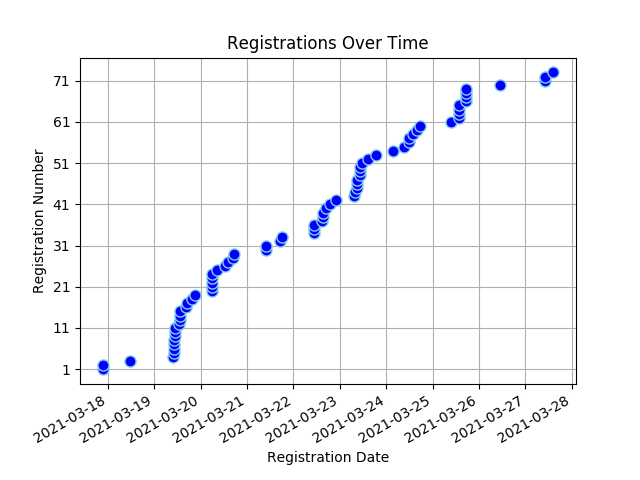
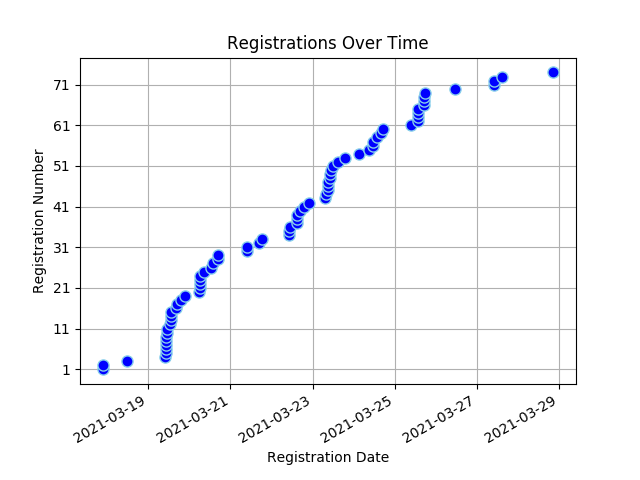
Registree stats backup on Sun 28 Mar 2021 21:01:53 SAST

diff --git a/content/registrees/_index.md b/content/registrees/_index.md
@@ -3,11 +3,11 @@ title: Registration Stats
 draft: false
 ---
 
-<ul><li><strong>Number of Registrees</strong>: 73</li>
+<ul><li><strong>Number of Registrees</strong>: 74</li>
 
 <li><strong>Number of Clubs</strong>: 37</li>
 
-<li><strong>Club With Most Attendees</strong>: Cape Town (6 registrees)</li>
+<li><strong>Clubs With Most Attendees</strong>: Cape Town, Sedgefield (6 registrees)</li>
 </ul><h2>Registrees</h2>
 
 <script type="text/javascript" src="https://ajax.googleapis.com/ajax/libs/jquery/3.4.1/jquery.min.js"></script>
@@ -33,6 +33,6 @@ draft: false
         </tr>
     </thead>
     <tbody>
-<tr><td>Natalie Abrahams</td><td>Cape Town</td><td>410W</td></tr><tr><td>Valencia Beukes-Williams</td><td>Kuilsriver</td><td>410W</td></tr><tr><td>JOSE BRAGA BORGES</td><td>Malmesbury</td><td>410W</td></tr><tr><td>Herman Cadman</td><td>Stellenbosch</td><td>410W</td></tr><tr><td>Linda Ann Cannone</td><td>Fish Hoek</td><td>410W</td></tr><tr><td>Sue Charles</td><td>Tokai</td><td>410W</td></tr><tr><td>Perry Chetty</td><td>East Coast</td><td>410E</td></tr><tr><td>Esme Cornelius</td><td>Kuilsriver</td><td>410W</td></tr><tr><td>Sharon Cottle</td><td>Groote Schuur</td><td>410E</td></tr><tr><td>Peter Daniel</td><td>Gordons Bay</td><td>410W</td></tr><tr><td>Norma Daniel</td><td>Gordons Bay</td><td>410W</td></tr><tr><td>Engela de Kock</td><td>Swellendam</td><td>410W</td></tr><tr><td>Francois de Kock</td><td>Swellendam</td><td>410W</td></tr><tr><td>ANDRE DE VILLIERS</td><td>Malgas</td><td>410W</td></tr><tr><td>Desiree du Toit</td><td>Ramsgate</td><td>410E</td></tr><tr><td>Natalie Etridge</td><td>Sedgefield</td><td>410W</td></tr><tr><td>Roger Fahrbach</td><td>Windhoek</td><td>410W</td></tr><tr><td>Beate Fahrbach</td><td>Windhoek</td><td>410W</td></tr><tr><td>Charles Flanagan</td><td>Tokai</td><td>410W</td></tr><tr><td>Jules Flanagan</td><td>Tokai</td><td>410W</td></tr><tr><td>Viv Grater</td><td>Sedgefield</td><td>410W</td></tr><tr><td>Dorothy Hess</td><td>Kuilsriver</td><td>410W</td></tr><tr><td>Wendy Higgins</td><td>Wilro Park</td><td>410E</td></tr><tr><td>Jacqui Hocking</td><td>Midrand</td><td>410E</td></tr><tr><td>Cliff Hocking</td><td>Midrand</td><td>410E</td></tr><tr><td>Liz Houston</td><td>Table View</td><td>410W</td></tr><tr><td>John Houston</td><td>Table View</td><td>410W</td></tr><tr><td>WOLSLEY Jacobson</td><td>Cape Town</td><td>410W</td></tr><tr><td>Jerome Kern</td><td>Groote Schuur</td><td>410W</td></tr><tr><td>Zwaai Kruger</td><td>Sedgefield</td><td>410W</td></tr><tr><td>Bevil Lakay</td><td>Mitchells Plain</td><td>410W</td></tr><tr><td>Paula Lang</td><td>Gordons Bay</td><td>410W</td></tr><tr><td>Jimmy Lang</td><td>Gordons Bay</td><td>410W</td></tr><tr><td>Sharon Mangwende</td><td>Cape Town</td><td>410E</td></tr><tr><td>Beaulieu Mare</td><td>Benoni Lakes</td><td>410E</td></tr><tr><td>David Mccullough</td><td>Pretoria South</td><td>410E</td></tr><tr><td>Mark Meltzer</td><td>The Wilds</td><td>410E</td></tr><tr><td>Denis Meyer</td><td>Port Shepstone</td><td>410E</td></tr><tr><td>BERNICE MILLS</td><td>Centurion</td><td>410E</td></tr><tr><td>Patrick Mills</td><td>Centurion</td><td>410E</td></tr><tr><td>Cherie Milosevich</td><td>Milnerton</td><td>410W</td></tr><tr><td>Virginia Mkhize</td><td>Cape Town</td><td>410W</td></tr><tr><td>Bernadine Moses</td><td>Cape Town</td><td>410W</td></tr><tr><td>Pieter Nel</td><td>George</td><td>410W</td></tr><tr><td>Tillie Nel</td><td>Eden</td><td>410W</td></tr><tr><td>Debra Olivier</td><td>Sedgefield</td><td>410W</td></tr><tr><td>BRIAN PORTEOUS</td><td>Hibberdene</td><td>410E</td></tr><tr><td>Irene Rugheimer</td><td>Bedfordview</td><td>410E</td></tr><tr><td>Ingrid Russell</td><td>Fish Hoek</td><td>410W</td></tr><tr><td>Francis Searle</td><td>Kouga</td><td>410E</td></tr><tr><td>Gloria Searle</td><td>Kouga</td><td>410E</td></tr><tr><td>Ami Sell</td><td>Windhoek</td><td>410W</td></tr><tr><td>Sue Smit</td><td>Centurion</td><td>410E</td></tr><tr><td>Jeff Smith</td><td>Port Shepstone</td><td>410E</td></tr><tr><td>LYN SNYMAN</td><td>Deep South</td><td>410W</td></tr><tr><td>RORY stier</td><td>Deep South</td><td>410W</td></tr><tr><td>Patrick Strauss</td><td>Kuilsriver</td><td>410W</td></tr><tr><td>Lauryn Talbot</td><td>Benoni Lakes</td><td>410E</td></tr><tr><td>Alistair Tuckett</td><td>Roodepoort Clearwater Cyber</td><td>410E</td></tr><tr><td>HILARY LISE VAN BREDA</td><td>Cape Town</td><td>410W</td></tr><tr><td>Marina Van de Merwe</td><td>Malmesbury</td><td>410W</td></tr><tr><td>Neville Van Rensburg</td><td>Moorreesburg</td><td>410W</td></tr><tr><td>Johan van Rensburg</td><td>Windhoek</td><td>410W</td></tr><tr><td>Anne van Rensburg</td><td>Windhoek</td><td>410W</td></tr><tr><td>Jeannie van Wulven</td><td>Tygerberg Hills</td><td>410W</td></tr><tr><td>Alan van Wulven</td><td>Tygerberg Hills</td><td>410W</td></tr><tr><td>Deon van Wulven</td><td>Tygerberg Hills</td><td>410W</td></tr><tr><td>Kim van Wyk</td><td>North Durban</td><td>410E</td></tr><tr><td>Edith Van Wyk-Nelson</td><td>Kuilsriver</td><td>410W</td></tr><tr><td>Brian von der Decken</td><td>King William's Town</td><td>410E</td></tr><tr><td>Rochelle Vorster</td><td>Sedgefield</td><td>410W</td></tr><tr><td>Allan Watson</td><td>Sea Point</td><td>410W</td></tr><tr><td>Judy Young</td><td>Durbanville</td><td>410W</td></tr>
+<tr><td>Natalie Abrahams</td><td>Cape Town</td><td>410W</td></tr><tr><td>Valencia Beukes-Williams</td><td>Kuilsriver</td><td>410W</td></tr><tr><td>JOSE BRAGA BORGES</td><td>Malmesbury</td><td>410W</td></tr><tr><td>Herman Cadman</td><td>Stellenbosch</td><td>410W</td></tr><tr><td>Linda Ann Cannone</td><td>Fish Hoek</td><td>410W</td></tr><tr><td>Sue Charles</td><td>Tokai</td><td>410W</td></tr><tr><td>Perry Chetty</td><td>East Coast</td><td>410E</td></tr><tr><td>Esme Cornelius</td><td>Kuilsriver</td><td>410W</td></tr><tr><td>Sharon Cottle</td><td>Groote Schuur</td><td>410E</td></tr><tr><td>Peter Daniel</td><td>Gordons Bay</td><td>410W</td></tr><tr><td>Norma Daniel</td><td>Gordons Bay</td><td>410W</td></tr><tr><td>Engela de Kock</td><td>Swellendam</td><td>410W</td></tr><tr><td>Francois de Kock</td><td>Swellendam</td><td>410W</td></tr><tr><td>ANDRE DE VILLIERS</td><td>Malgas</td><td>410W</td></tr><tr><td>Desiree du Toit</td><td>Ramsgate</td><td>410E</td></tr><tr><td>Natalie Etridge</td><td>Sedgefield</td><td>410W</td></tr><tr><td>Roger Fahrbach</td><td>Windhoek</td><td>410W</td></tr><tr><td>Beate Fahrbach</td><td>Windhoek</td><td>410W</td></tr><tr><td>Charles Flanagan</td><td>Tokai</td><td>410W</td></tr><tr><td>Jules Flanagan</td><td>Tokai</td><td>410W</td></tr><tr><td>Viv Grater</td><td>Sedgefield</td><td>410W</td></tr><tr><td>Mattheus Groves</td><td>Sedgefield</td><td>410W</td></tr><tr><td>Dorothy Hess</td><td>Kuilsriver</td><td>410W</td></tr><tr><td>Wendy Higgins</td><td>Wilro Park</td><td>410E</td></tr><tr><td>Jacqui Hocking</td><td>Midrand</td><td>410E</td></tr><tr><td>Cliff Hocking</td><td>Midrand</td><td>410E</td></tr><tr><td>Liz Houston</td><td>Table View</td><td>410W</td></tr><tr><td>John Houston</td><td>Table View</td><td>410W</td></tr><tr><td>WOLSLEY Jacobson</td><td>Cape Town</td><td>410W</td></tr><tr><td>Jerome Kern</td><td>Groote Schuur</td><td>410W</td></tr><tr><td>Zwaai Kruger</td><td>Sedgefield</td><td>410W</td></tr><tr><td>Bevil Lakay</td><td>Mitchells Plain</td><td>410W</td></tr><tr><td>Paula Lang</td><td>Gordons Bay</td><td>410W</td></tr><tr><td>Jimmy Lang</td><td>Gordons Bay</td><td>410W</td></tr><tr><td>Sharon Mangwende</td><td>Cape Town</td><td>410E</td></tr><tr><td>Beaulieu Mare</td><td>Benoni Lakes</td><td>410E</td></tr><tr><td>David Mccullough</td><td>Pretoria South</td><td>410E</td></tr><tr><td>Mark Meltzer</td><td>The Wilds</td><td>410E</td></tr><tr><td>Denis Meyer</td><td>Port Shepstone</td><td>410E</td></tr><tr><td>BERNICE MILLS</td><td>Centurion</td><td>410E</td></tr><tr><td>Patrick Mills</td><td>Centurion</td><td>410E</td></tr><tr><td>Cherie Milosevich</td><td>Milnerton</td><td>410W</td></tr><tr><td>Virginia Mkhize</td><td>Cape Town</td><td>410W</td></tr><tr><td>Bernadine Moses</td><td>Cape Town</td><td>410W</td></tr><tr><td>Pieter Nel</td><td>George</td><td>410W</td></tr><tr><td>Tillie Nel</td><td>Eden</td><td>410W</td></tr><tr><td>Debra Olivier</td><td>Sedgefield</td><td>410W</td></tr><tr><td>BRIAN PORTEOUS</td><td>Hibberdene</td><td>410E</td></tr><tr><td>Irene Rugheimer</td><td>Bedfordview</td><td>410E</td></tr><tr><td>Ingrid Russell</td><td>Fish Hoek</td><td>410W</td></tr><tr><td>Francis Searle</td><td>Kouga</td><td>410E</td></tr><tr><td>Gloria Searle</td><td>Kouga</td><td>410E</td></tr><tr><td>Ami Sell</td><td>Windhoek</td><td>410W</td></tr><tr><td>Sue Smit</td><td>Centurion</td><td>410E</td></tr><tr><td>Jeff Smith</td><td>Port Shepstone</td><td>410E</td></tr><tr><td>LYN SNYMAN</td><td>Deep South</td><td>410W</td></tr><tr><td>RORY stier</td><td>Deep South</td><td>410W</td></tr><tr><td>Patrick Strauss</td><td>Kuilsriver</td><td>410W</td></tr><tr><td>Lauryn Talbot</td><td>Benoni Lakes</td><td>410E</td></tr><tr><td>Alistair Tuckett</td><td>Roodepoort Clearwater Cyber</td><td>410E</td></tr><tr><td>HILARY LISE VAN BREDA</td><td>Cape Town</td><td>410W</td></tr><tr><td>Marina Van de Merwe</td><td>Malmesbury</td><td>410W</td></tr><tr><td>Neville Van Rensburg</td><td>Moorreesburg</td><td>410W</td></tr><tr><td>Johan van Rensburg</td><td>Windhoek</td><td>410W</td></tr><tr><td>Anne van Rensburg</td><td>Windhoek</td><td>410W</td></tr><tr><td>Jeannie van Wulven</td><td>Tygerberg Hills</td><td>410W</td></tr><tr><td>Alan van Wulven</td><td>Tygerberg Hills</td><td>410W</td></tr><tr><td>Deon van Wulven</td><td>Tygerberg Hills</td><td>410W</td></tr><tr><td>Kim van Wyk</td><td>North Durban</td><td>410E</td></tr><tr><td>Edith Van Wyk-Nelson</td><td>Kuilsriver</td><td>410W</td></tr><tr><td>Brian von der Decken</td><td>King William's Town</td><td>410E</td></tr><tr><td>Rochelle Vorster</td><td>Sedgefield</td><td>410W</td></tr><tr><td>Allan Watson</td><td>Sea Point</td><td>410W</td></tr><tr><td>Judy Young</td><td>Durbanville</td><td>410W</td></tr>
 </tbody>
 </table>

diff --git a/content/full_stats/_index.md b/content/full_stats/_index.md
@@ -16,16 +16,16 @@ draft: false
 </head>
 <body>
 <h1 style="color: #000000;">Full Registration Stats</h1>
-<ul><li><strong>Number of Registrees</strong>: 73</li>
+<ul><li><strong>Number of Registrees</strong>: 74</li>
 <li><strong>Number of Clubs</strong>: 37</li>
-<li><strong>Club With Most Attendees</strong>: Cape Town (6 registrees)</li>
+<li><strong>Clubs With Most Attendees</strong>: Cape Town, Sedgefield (6 registrees)</li>
 
-<li><strong>Number of District 410W Convention Attendees</strong>: 50</li>
+<li><strong>Number of District 410W Convention Attendees</strong>: 51</li>
 <li><strong>Number of District 410W Convention Voters</strong>: 25</li>
 <li><strong>Number of District 410E Convention Attendees</strong>: 23</li>
 <li><strong>Number of District 410E Convention Voters</strong>: 12</li>
 
-<li><strong>Number of MD410 Convention Attendees</strong>: 65</li>
+<li><strong>Number of MD410 Convention Attendees</strong>: 66</li>
 <li><strong>Number of MD410 Convention Voters</strong>: 34</li>
 
 </ul>
@@ -286,6 +286,17 @@ draft: false
 <td>Sedgefield</td>
 <td>410W</td>
 <td style="background-color: lightgreen">Yes</td>
+<td style="background-color: lightgreen">Yes</td>
+<td style="background-color: lightgreen">Yes</td>
+<td>No</td>
+</tr>
+
+    
+<td>76</td>
+<td>Mattheus Groves</td>
+<td>Sedgefield</td>
+<td>410W</td>
+<td>No</td>
 <td style="background-color: lightgreen">Yes</td>
 <td style="background-color: lightgreen">Yes</td>
 <td>No</td>
